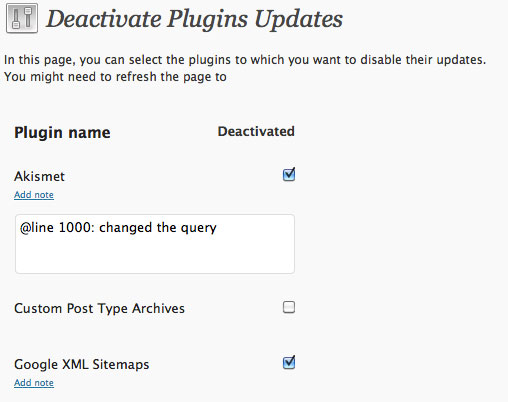
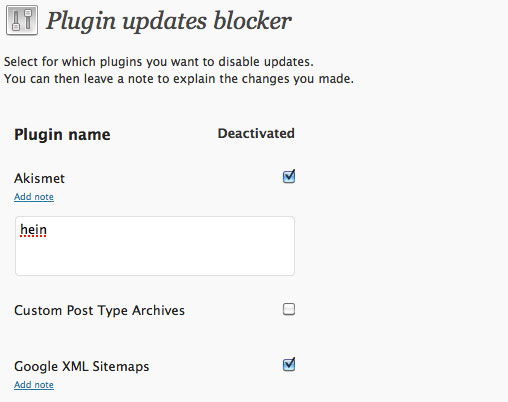
minor changes, just because It's already late

diff --git a/plugin-update-blocker/dpu-menu.php b/plugin-update-blocker/dpu-menu.php
@@ -71,14 +71,9 @@ jQuery(document).ready(function($) {
 
 <div class="wrap dpu-options">
 	<div id="icon-options-general" class="icon32"><br /></div>
-	<h2>Plugin Updates Blocker</h2>
+	<h2><?php echo PUB_NAME; ?></h2>
     <p>
     Select for which plugins you want to disable updates.<br />You can then leave a note to explain the changes you made.
-	<br />	
-<b>Please note:</b><br />
-It's strongly recommended that you keep your WordPress plugins up to date.<br />
-If you skip plugin updates, you could expose your website to critical security issues.
-
     </p>
 	<form action="admin.php?page=<?php echo PUB_SLUG; ?>" method="post">
     <input type="hidden" name="action" value="pub_save">
@@ -111,7 +106,7 @@ If you skip plugin updates, you could expose your website to critical security i
         ?>
         </tbody>
     </table>
-    <input type="submit" class='button-primary' value="Hide selected items">
+    <input type="submit" class='button-primary' value="deactivate updates for selected plugins">
     
     </form>
     

diff --git a/plugin-update-blocker/plugin-update-blocker.php b/plugin-update-blocker/plugin-update-blocker.php
@@ -24,8 +24,8 @@
     Foundation, Inc., 51 Franklin St, Fifth Floor, Boston, MA  02110-1301  USA
 */
 
-define('PUB_NAME', 'Plugin update blocker');
-define('PUB_SLUG', 'plugin-update-blocker');
+define('PUB_NAME', 'Plugin updates blocker');
+define('PUB_SLUG', 'plugin-updates-blocker');
 define('PUB_UPDATE_DEACTIVATED', 'pub_update_deactivated');
 
 if (!function_exists('get_plugins')){ require_once (ABSPATH."wp-admin/includes/plugin.php"); }
